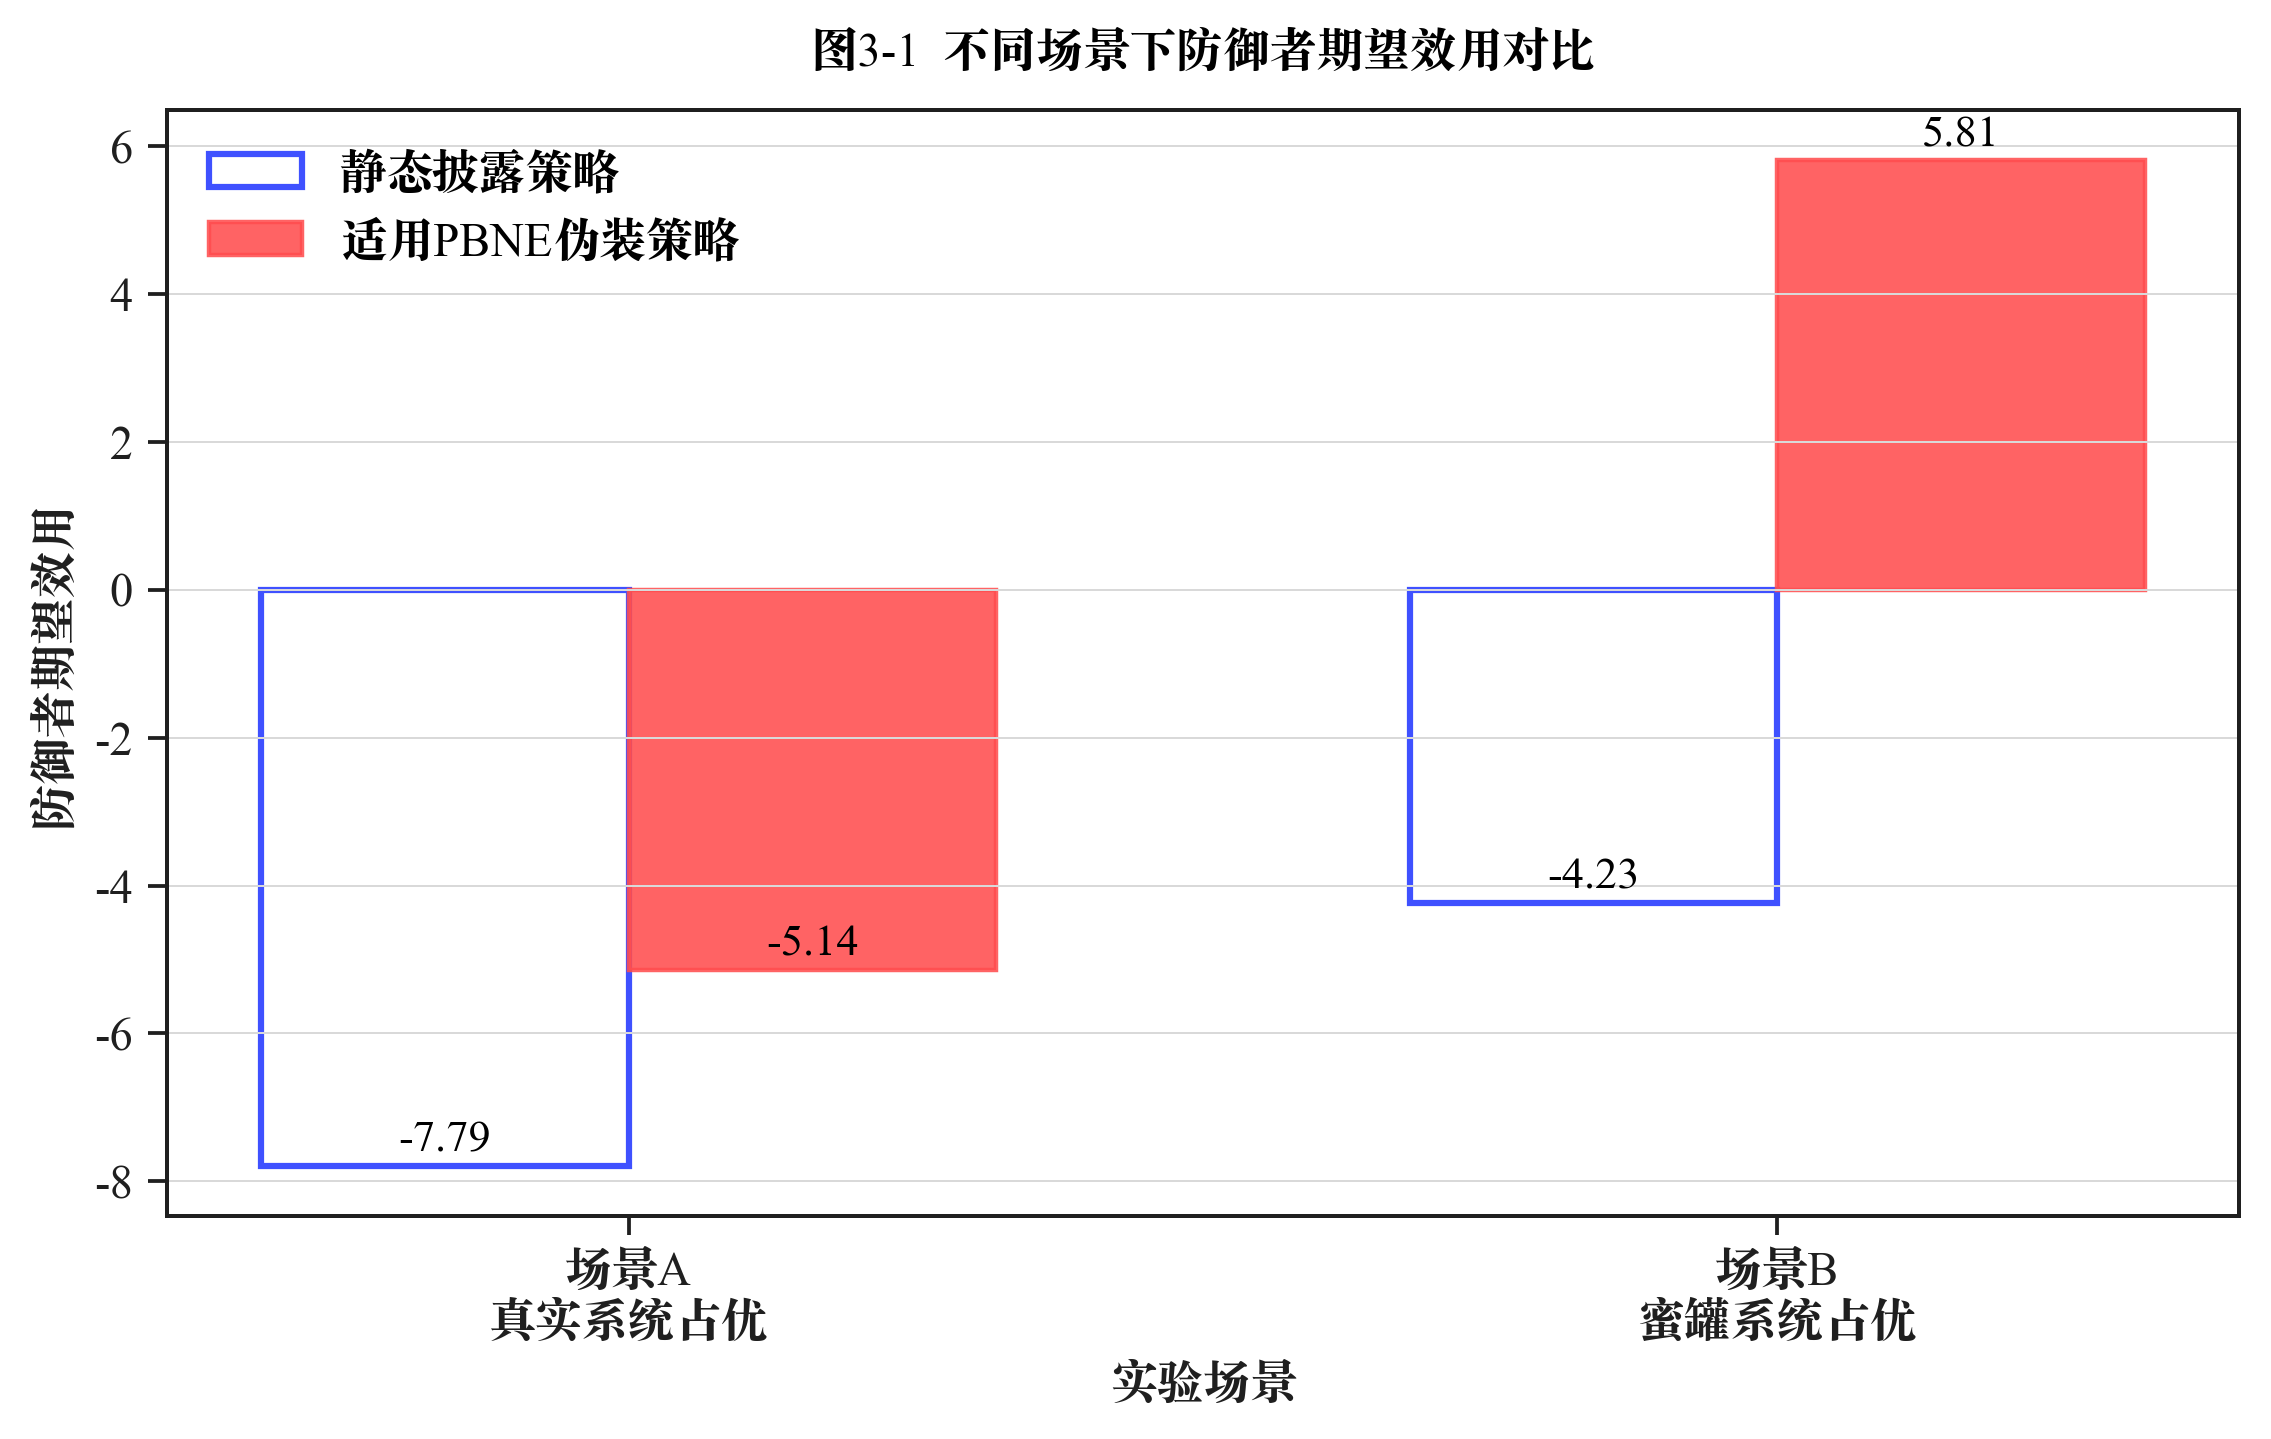
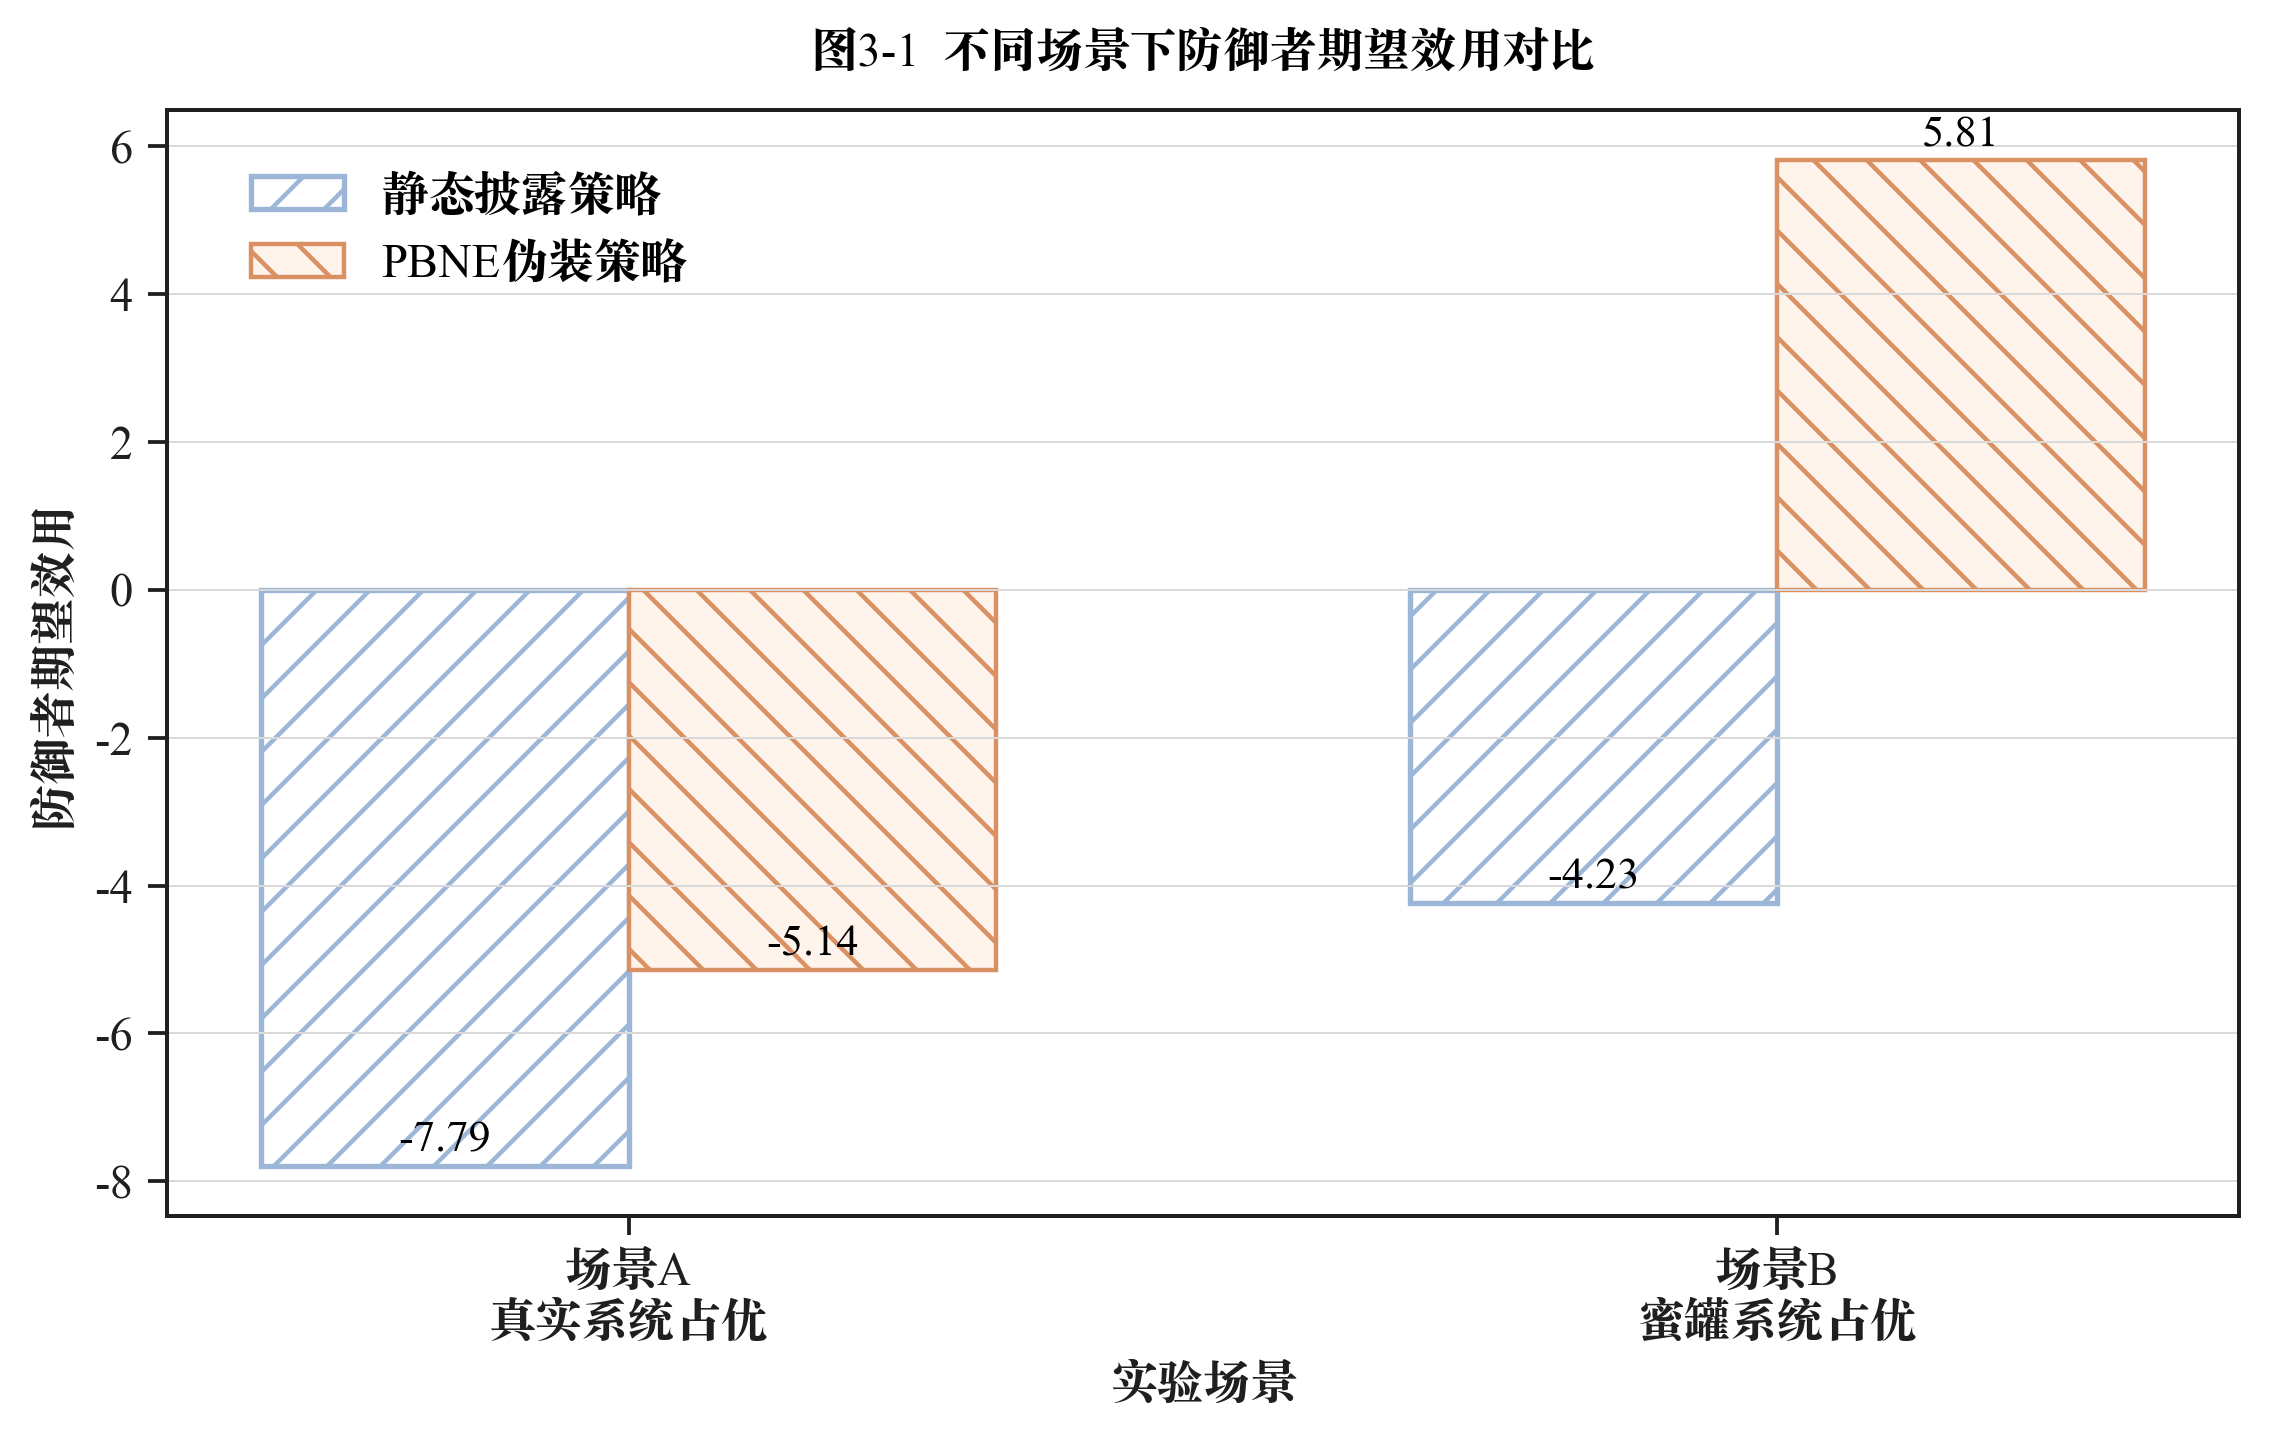
Restyle Figure 3-1 bar colors and legend

Changed region(s): [[0.0925, 0.3975, 0.4624, 0.8256], [0.6165, 0.0917, 0.9555, 0.6421], [0.0925, 0.0917, 0.3391, 0.214]]

diff --git a/sg_deception_simulation/plot_results.py b/sg_deception_simulation/plot_results.py
@@ -246,19 +246,21 @@ def plot_scenario_utility(feasible: dict) -> None:
         baseline_values,
         width=width,
         color="white",
-        edgecolor=COLOR_BASELINE,
-        linewidth=1.4,
+        edgecolor="#9CB6D8",
+        linewidth=1.2,
+        hatch="//",
         label="静态披露策略",
     )
     bars2 = ax.bar(
         x + width / 2,
         pbne_values,
         width=width,
-        color=COLOR_PBNE,
-        alpha=0.88,
-        edgecolor=COLOR_PBNE,
+        color="#FFF4EC",
+        alpha=1.0,
+        edgecolor="#D99063",
         linewidth=1.0,
-        label="适用PBNE伪装策略",
+        hatch="\\\\",
+        label="PBNE伪装策略",
     )
 
     for bar in bars1:
@@ -291,7 +293,7 @@ def plot_scenario_utility(feasible: dict) -> None:
     plt.ylabel("防御者期望效用", fontproperties=FONT_MIXED, fontsize=10.5)
     plt.xlabel("实验场景", fontproperties=FONT_MIXED, fontsize=10.5)
     plt.title("图3-1  不同场景下防御者期望效用对比", fontproperties=FONT_MIXED, fontsize=10.5, pad=10)
-    plt.legend(loc="best", prop=FONT_MIXED, fontsize=10.0)
+    plt.legend(loc="upper left", bbox_to_anchor=(0.02, 0.98), prop=FONT_MIXED, fontsize=10.0)
     apply_academic_axes_style(ax, x_font=FONT_MIXED, y_font=FONT_EN)
     save_figure("fig3_1_defender_utility_comparison.png")
 
